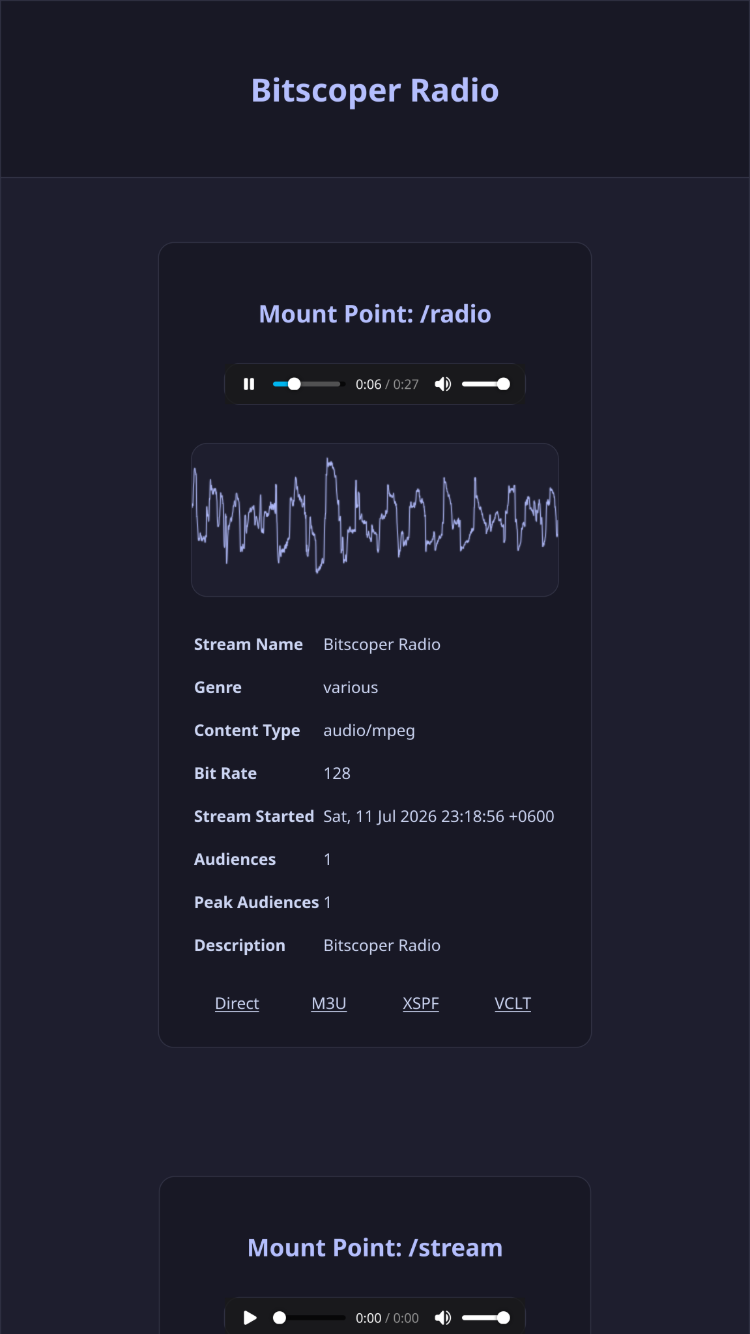
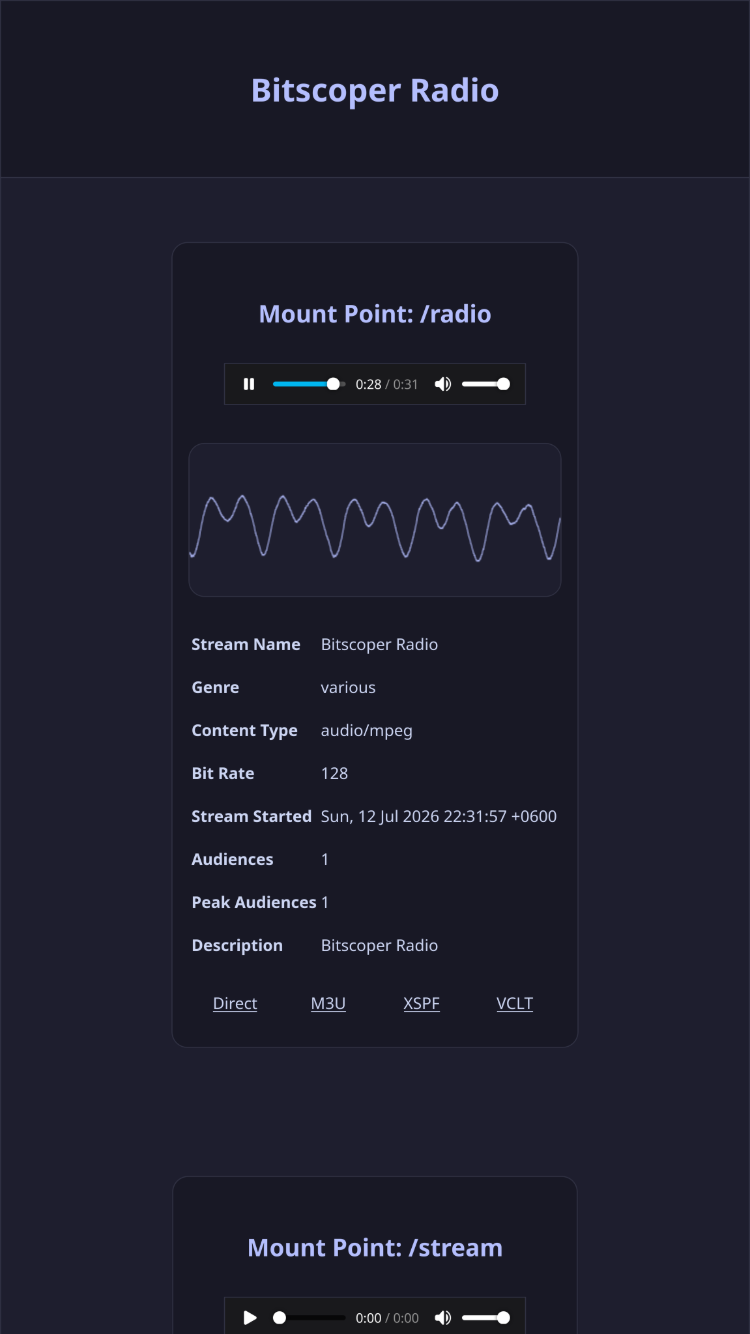
Updated Theme.

diff --git a/web/Stylesheet.css b/web/Stylesheet.css
@@ -44,7 +44,7 @@ body {
 header {
   border-bottom: 1px solid var(--surface0);
   background-color: var(--mantle);
-  padding: 4rem 1rem;
+  padding: 4rem 1rem 4rem 1rem;
 }
 
 header h1 {
@@ -64,7 +64,8 @@ section {
 
 @media (max-width: 768px) {
   section {
-    margin: 4rem 0rem 4rem 0rem;
+    margin: 4rem 0.5rem 4rem 0.5rem;
+    padding: 2rem 1rem 2rem 1rem;
   }
 }
 
@@ -77,7 +78,6 @@ section h2 {
 section audio,
 section video {
   border: 1px solid var(--surface0);
-  border-radius: 1rem;
 }
 
 section canvas {
@@ -111,6 +111,7 @@ section div span {
 
 section div span a {
   color: var(--text);
+  cursor: pointer;
   transition: color 0.2s;
 }
 
@@ -122,13 +123,14 @@ section div span a:focus {
 footer {
   border-top: 1px solid var(--surface0);
   background-color: var(--mantle);
-  padding: 2rem 1rem;
+  padding: 2rem 1rem 2rem 1rem;
   color: var(--text);
 }
 
 footer a {
   text-decoration: none;
   color: var(--text);
+  cursor: pointer;
   transition: color 0.2s;
 }
 
